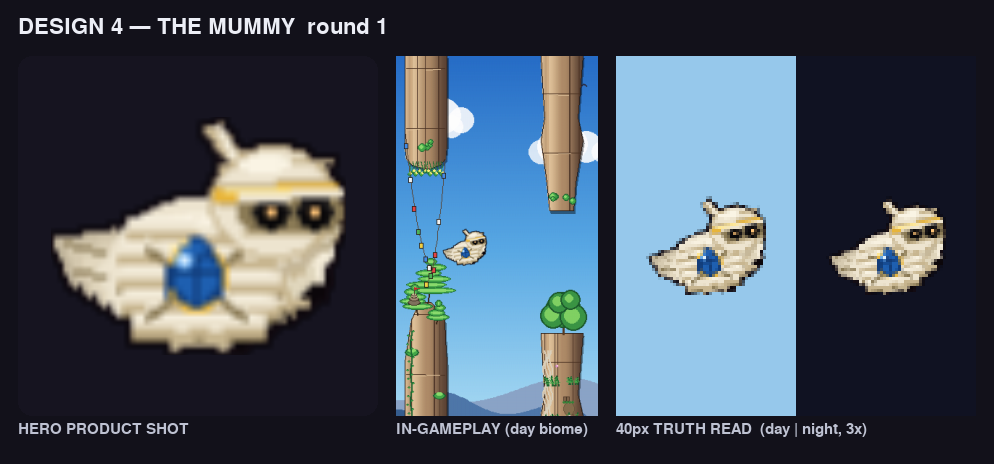
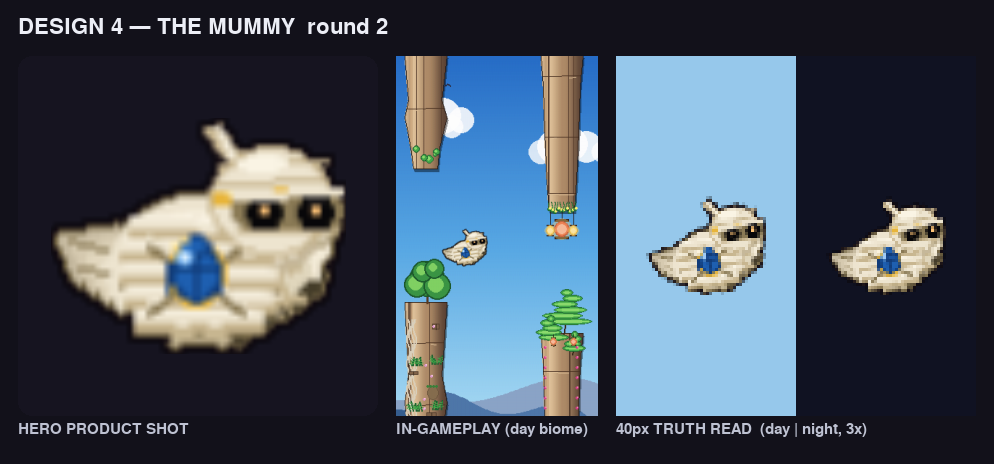
Mummy pharaoh R2: darker-linen outer rim, deeper sunken eyes, hardened brow-band
Claude-Session: https://claude.ai/code/session_01HafGQfRZVDiGkQqpJPr5Cm

diff --git a/tools/pharaoh_candidates/design_4.py b/tools/pharaoh_candidates/design_4.py
@@ -71,9 +71,32 @@ _MU_BODY = _pal(
 )
 
 
+_MU_RIM = (120, 106, 72)           # darker-linen rim on the OUTER body contour
+
+
 def _mu_base(angle_deg):
     # Linen-cream bird, no aviators — the sunken hollow sockets own the head.
-    return _build_parrot_with_palette(angle_deg, _MU_BODY, draw_lenses=False)
+    body = _build_parrot_with_palette(angle_deg, _MU_BODY, draw_lenses=False)
+    # The cream body sits at near-identical VALUE to the bright day sky, so the
+    # left wing / tail / head-dome edge dissolves at 40px. A darker-linen rim
+    # hugging the OUTER silhouette (drawn UNDER the body so it shows only as a
+    # 1px edge, never over the interior bands) gives the day read an edge to
+    # hold without touching the night structure.
+    return _rim_outer(body, _MU_RIM)
+
+
+def _rim_outer(src, color):
+    """Stamp a 1px `color` rim hugging the source silhouette's OUTER edge by
+    growing the alpha mask one pixel and laying the original sprite back on
+    top — only the contour ring survives, never the interior."""
+    w, h = src.get_size()
+    out = pygame.Surface((w, h), pygame.SRCALPHA)
+    mask = pygame.mask.from_surface(src, threshold=8)
+    ring = mask.to_surface(setcolor=color, unsetcolor=(0, 0, 0, 0))
+    for dx, dy in ((-1, 0), (1, 0), (0, -1), (0, 1)):
+        out.blit(ring, (dx, dy))
+    out.blit(src, (0, 0))
+    return out
 
 
 def _band(surf, y, x0, x1, dip=0):
@@ -165,9 +188,12 @@ def _paint(surf, _a):
         pygame.draw.line(surf, _MU_SEAM, (HX - 11, wy), (HX + 12, wy - 1), 1)
     pygame.draw.ellipse(surf, _MU_LINEN_H, (HX - 7, CROWN_Y - 2, 11, 4))
 
-    # Slim GOLD brow-band across the wrap — the one metallic note up top.
-    pygame.draw.line(surf, _MU_GOLD, (HX - 12, CROWN_Y + 6), (HX + 13, CROWN_Y + 5), 3)
-    pygame.draw.line(surf, _MU_GOLD_H, (HX - 10, CROWN_Y + 5), (HX + 6, CROWN_Y + 5), 1)
+    # Slim GOLD brow-band across the wrap — the one metallic note up top. Dropped
+    # 1px so it sits in the wrap shadow (not the bright highlight crest) and the
+    # solid 3px _MU_GOLD stays a hard horizontal gold line at 40px on day; the
+    # glint is a thin secondary so gold, not the pale glint, dominates.
+    pygame.draw.line(surf, _MU_GOLD, (HX - 12, CROWN_Y + 7), (HX + 13, CROWN_Y + 6), 3)
+    pygame.draw.line(surf, _MU_GOLD_H, (HX - 9, CROWN_Y + 6), (HX + 3, CROWN_Y + 6), 1)
 
     # One bandage tail flicking UP off the back of the wrap, into open sky above
     # CROWN_Y — the only element (with the wrap) allowed to break upward.
@@ -181,14 +207,18 @@ def _paint(surf, _a):
     # A dark wrap-gap band crosses the face; inside it sit two hollow sockets —
     # dark voids each with a faint amber pinpoint glow so the mummy reads as
     # alive-but-dead on both day and night (the pinpoint is the night tell).
-    pygame.draw.rect(surf, _MU_GRIME, (HX - 7, HY - 4, 22, 8), border_radius=3)
-    for ex in (HX, HX + 9):
-        pygame.draw.circle(surf, _MU_VOID, (ex, HY), 4)
-        pygame.draw.circle(surf, (8, 7, 9), (ex, HY + 1), 3)
+    pygame.draw.rect(surf, _MU_GRIME, (HX - 8, HY - 4, 24, 8), border_radius=3)
+    # Two sockets, spaced ~1px wider apart, with a NEAR-BLACK dominant fill so
+    # at 40px they survive as TWO distinct dark dots instead of merging with the
+    # grime wrap-gap band into one smear.
+    for ex in (HX - 1, HX + 10):
+        pygame.draw.circle(surf, (8, 7, 9), (ex, HY), 4)
+        pygame.draw.circle(surf, (8, 7, 9), (ex, HY + 1), 4)
+        pygame.draw.circle(surf, _MU_VOID, (ex, HY - 2), 2)   # faint upper rim of the hollow
         pygame.draw.circle(surf, _MU_PIN, (ex, HY), 1)        # inner pinpoint glow
     # A torn upper-wrap edge over the eyes so the gap reads as unravelled cloth.
-    pygame.draw.line(surf, _MU_LINEN, (HX - 7, HY - 4), (HX + 14, HY - 5), 2)
-    pygame.draw.line(surf, _MU_SEAM, (HX - 6, HY + 4), (HX + 13, HY + 4), 1)
+    pygame.draw.line(surf, _MU_LINEN, (HX - 8, HY - 4), (HX + 15, HY - 5), 2)
+    pygame.draw.line(surf, _MU_SEAM, (HX - 7, HY + 4), (HX + 14, HY + 4), 1)
 
 
 build = store_skins._make_skin(_paint, base_fn=_mu_base)

diff --git a/tools/pharaoh_candidates/render_design_4.py b/tools/pharaoh_candidates/render_design_4.py
@@ -14,7 +14,7 @@ from tools import ninja_render
 from tools.pharaoh_candidates.design_4 import build
 
 OUT = "docs/store_redesign/costume/pharaoh/design_4/round_1.png"
-TITLE = "DESIGN 4 — THE MUMMY  round 1"
+TITLE = "DESIGN 4 — THE MUMMY  round 2"
 
 
 def _label(surf, text, x, y, size=18, color=(236, 238, 246)):
